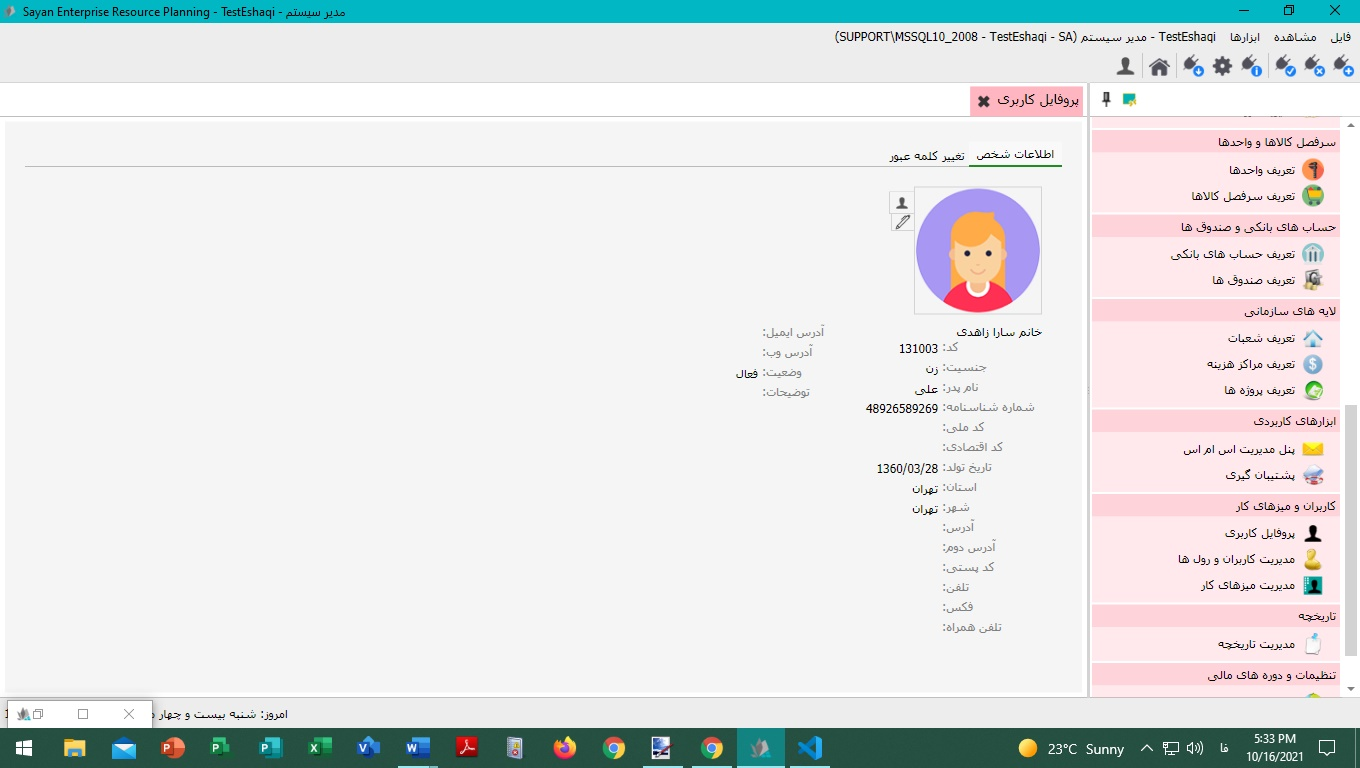
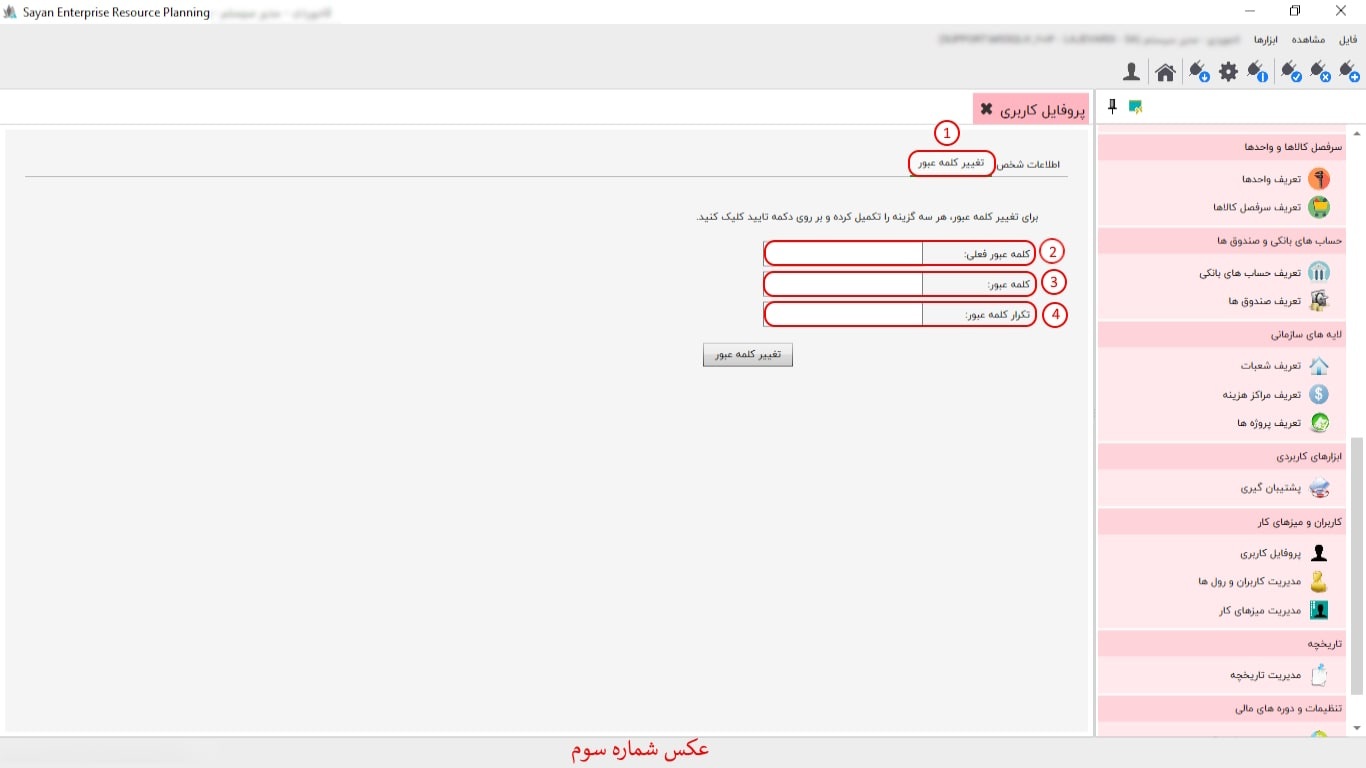
ایجاد عکس

diff --git a/Help/fa-IR/_18_اطلاعات پایه و مشترک/_15_پروفایل کاربری/index.html b/Help/fa-IR/_18_اطلاعات پایه و مشترک/_15_پروفایل کاربری/index.html
@@ -18,21 +18,27 @@
 	</p>
 	<img class="FitPic" src="l1.jpg" />
 	<p>
-		همانطور که مشاهده می کنید، تصویر صفحه پروفایل خالی می باشد.
-		.اکنون برای اعمال تنظیمات پروفایل کاربری، با ما همراه شوید
-		پیشتر درباره 
-		<a href="../../_18_اطلاعات پایه و مشترک/_01_مدیریت اشخاص/index.html">«مدیریت اشخاص»</a> 
-		توضیحات کاملی ارائه شده است.
-		در صورتی که بخواهید صفحه پروفایل کاربری را با اطلاعات مشاهده فرمایید.
-		1. ابتدا دکمه پروفایل کاربری را کلیک کنید.
-		2. در صورتیکه اشخاص را در سیستم ورود اطلاعات کرده اید، می توانید از 
-		طریق لیست پیش رویتان «شخص» مورد نظر را انتخاب نمایید و دکمه تایید را کلیک کنید.
+		برای ادامه مطلب به عکس شماره دوم مراجعه نمایید.
+	</p>
 	<img class="FitPic" src="l2.jpg" />
-
-		3.  اکنون دوباره صفحه پروفایل کاربری را کلیک کنید.
-		مشاهده خواهید کرد که اطلاعات شخص منتخب در این صفحه قابل نمایش می باشد.
-	
+	<p>
+	-اطلاعات شخص(کادر شماره یک):
+	</p>	
+	<p>
+		برای ادامه مطلب به عکس شماره سوم مراجعه نمایید.
+	</p>
 	<img class="FitPic" src="l3.jpg" />
+	<p>
+		-تغییر کلمه عبور(کادر شماره یک):
+	</p>
+	<p>
+	-کلمه عبور فعلی (کادر شماره دوم):
+	</p>
+	<p>
+		کلمه عبور(کادر شماره سوم):
+	</p>
+	<p>
+		-تکرار کلمه عبور (کادر شماره چهارم):
 	</p>
 	</body>
 
